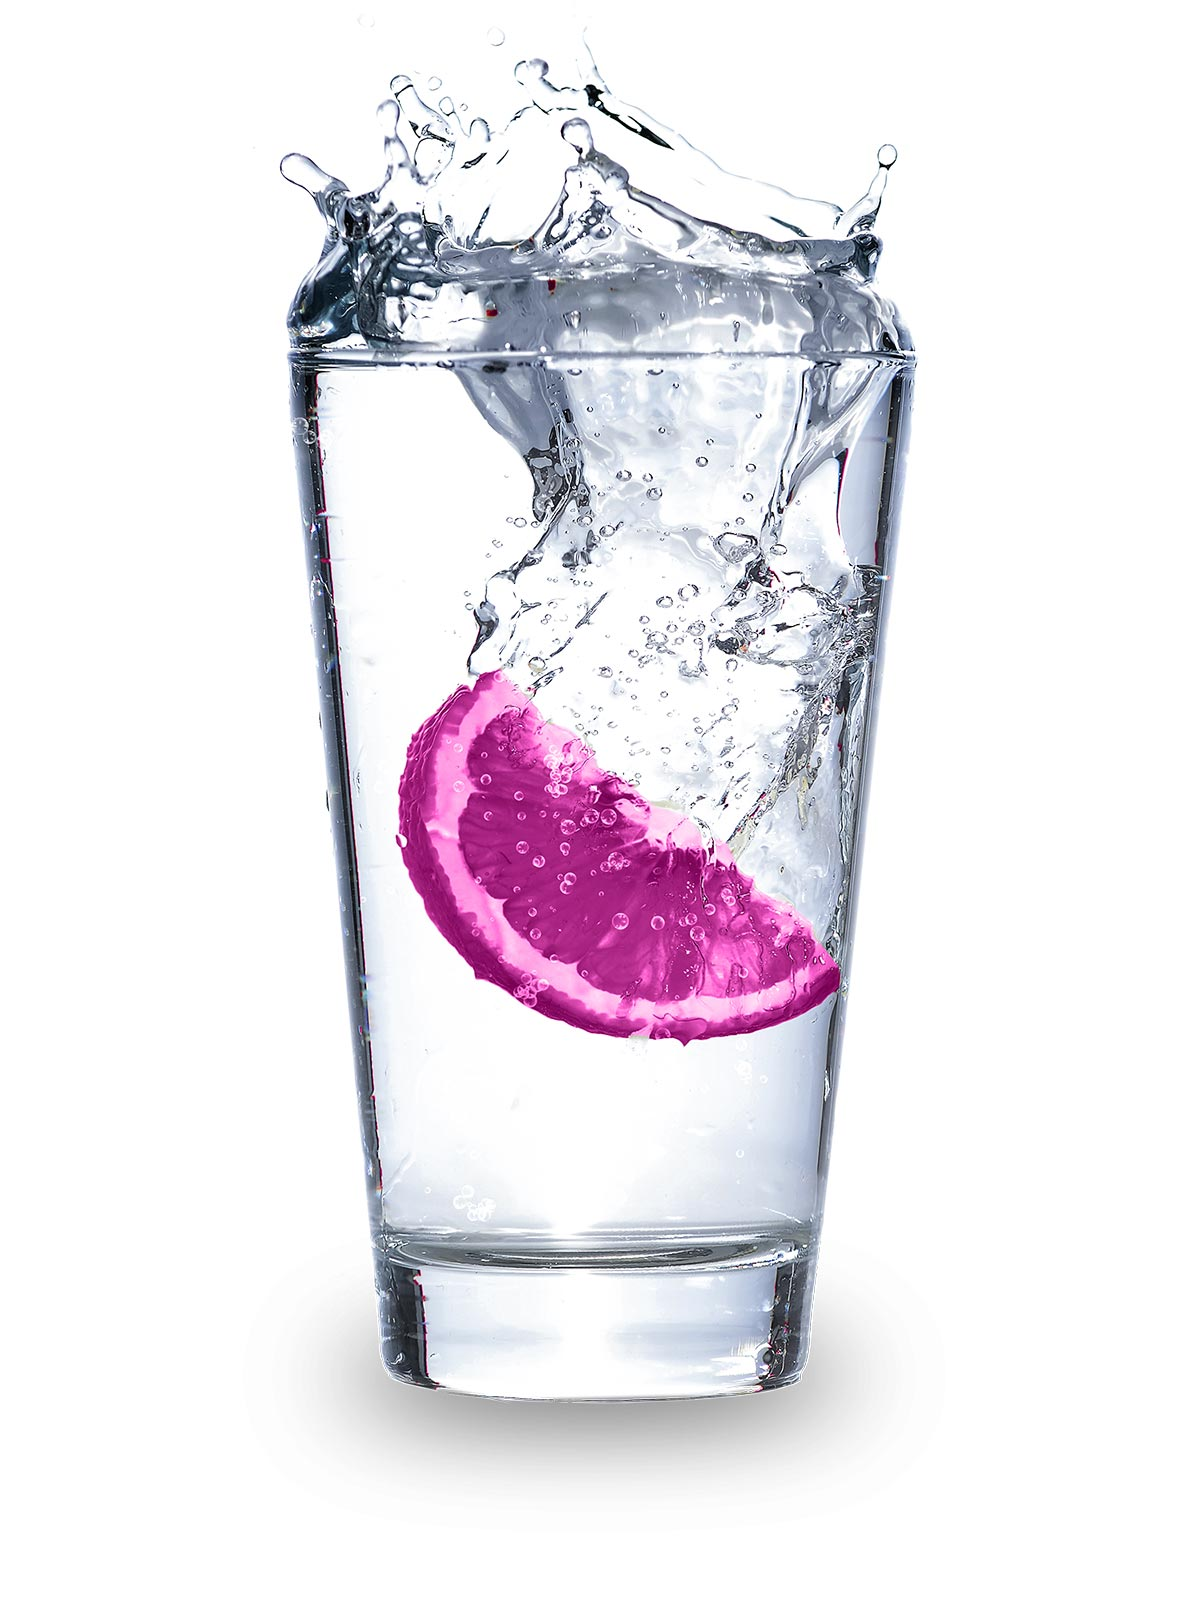
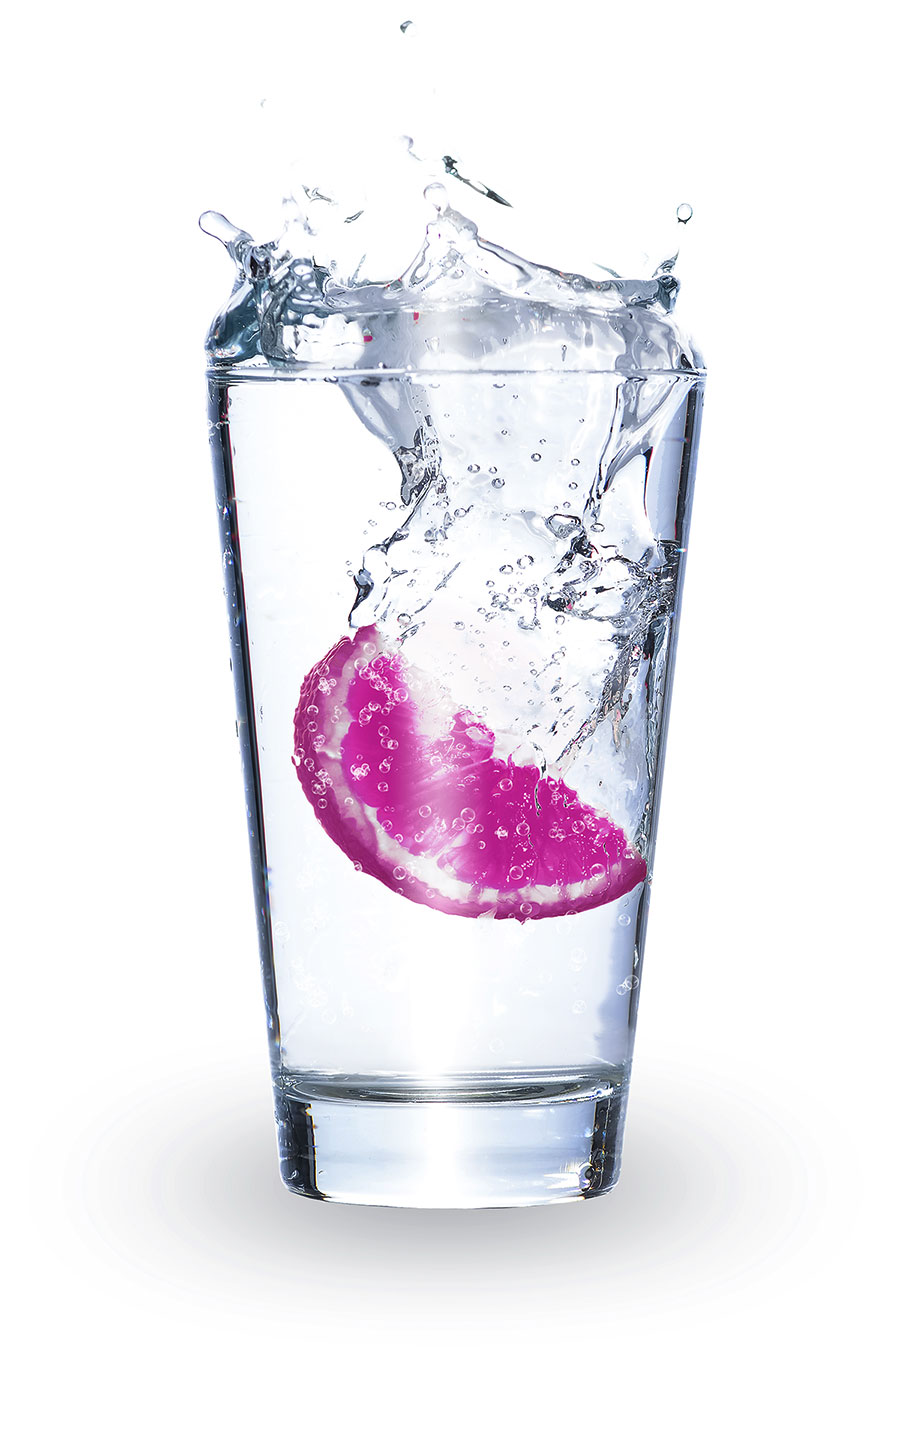
Fix quality and bad blur on glass photo

Changed region(s): [[0.2178, 0.0306, 0.8089, 0.9192]]

diff --git a/src/static/index.html b/src/static/index.html
@@ -50,7 +50,7 @@
 
   <section class="intro">
     <div class="container">
-      <img src="/images/glass.jpg" alt="Glass of Tonic" width="325" class="glass"/>
+      <img src="/images/glass.jpg" alt="Glass of Tonic" width="340" height="542" class="glass"/>
 
       <div class="row">
         <div class="col-xs-10 col-xs-offset-1 col-sm-9 col-sm-offset-1 col-md-8 col-md-offset-1 intro-text">

diff --git a/src/styles/_intro.scss b/src/styles/_intro.scss
@@ -7,8 +7,8 @@
 
     img.glass {
       position: absolute;
-      right: 70px;
-      top: -50px;
+      right: 50px;
+      top: -102px;
     }
   }
 
